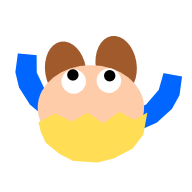
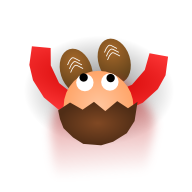
Uusi pelihahmo, uusi menu ja uudet kujeet

diff --git a/js/scripts.js b/js/scripts.js
@@ -92,7 +92,7 @@ $(function(){
 	var ukkoToleranssi = 40;
 	var pelikerrat=0;
 	
-	var tummuus = 0;
+	var tummuus = 1;
 	var biomiLaskuri=0;
 	
 	// Biomit
@@ -183,12 +183,12 @@ $(function(){
 		vihuX.push(ukkoX);
     }
 
-	var vihuSiirtyma = 256;
+	var vihuSiirtyma = 95;
 	
 	var matka = 0;
     var tieMinMax = [0, 960];
     
-    var paussilla = true;
+    var tauko = false;
 
 	// 2D-taulukko [5x4], jossa on referenssit kuviin
 	function alustaMaasto(){
@@ -329,7 +329,7 @@ $(function(){
 			biomiLaskuri=0;
 		}
 		// Pienennä musiikin äänenvoimakkuutta, kun vihollinen on lähempänä, menuissa, ym.
-		if(paussilla){
+		if(tauko){
 			aanenVoimakkuus=0.1;
 		}else{
 			aanenVoimakkuus=Math.max(0,Math.min(1,1/176*(vihuSiirtyma-80)));
@@ -391,10 +391,10 @@ $(function(){
 				break;
 				// Aseta peli tauolle kun painaa Esc
 				case 27:
-					if(paussilla){
-						paussilla=false;
+					if(tauko){
+						tauko=false;
 					}else{
-						paussilla=true;
+						tauko=true;
 					}
 				break;
 			}
@@ -443,10 +443,12 @@ $(function(){
 		}
         
         //Ukko ja tie. 
-		if((ukkoX<(tieMinMax[0]-ukkoToleranssi) || ukkoX > tieMinMax[1]+ukkoToleranssi-120) && !paussilla){
+		if((ukkoX<(tieMinMax[0]-ukkoToleranssi) || ukkoX > tieMinMax[1]+ukkoToleranssi-120) && !tauko){
+			var puolivali = Math.floor((0.5*(tieMinMax[0] + tieMinMax[1]))/192)*192;
 			suojakilpiTeho -= Math.random()/10;
 			suojakilpiTeho  = Math.max(0.1,suojakilpiTeho);
 			if(suojakilpi <= 0){
+				tavoiteX=puolivali;
 				vihuSiirtyma -= 64 + Math.round(Math.random()*48);
 				suojakilpi+=2000;
 				navigator.vibrate(500);
@@ -460,7 +462,7 @@ $(function(){
 		}
 		
 		// Maaston liikuttaminen
-		if(paussilla){
+		if(tauko){
 			game().textAlign="center";
 			var keskiosa = {"x":$("canvas").width()/2,"y":$("canvas").height()/2};
 			kirjoita("Tauolla",keskiosa.x,keskiosa.y,true,48);
@@ -477,7 +479,7 @@ $(function(){
 			siirtoY=0;
 			biomiLaskuri+=1;
 			console.log("Biomia on ollut "+biomiLaskuri+" blokkia");
-		if(hengissa && !paussilla){
+		if(hengissa && !tauko){
 			matka += 1;
 		}
 
@@ -645,34 +647,47 @@ $(function(){
 			// Kirjoita ruudun tekstit
 			switch(tila){
 				case 0:
-					kirjoita(pad(Math.round(matka),6),64,128,true,64);
-			
-					kirjoita("Uusi peli 〉",64,256,true,24);
-					kirjoita("Oletko valmis seikkailuun?",64,280,false);
-					kirjoita("Elvytä 〉",320,256,true,24);
-					if(kolikot>=100*Math.pow(2,pelikerrat)+50){
-						kirjoita("Jatka peliä, hinta "+(100*Math.pow(2,pelikerrat)+50)+" €",320,280,false);
+					if(matka>=10){
+						kirjoita(pad(Math.round(matka),6),64,128,true,64);
+						kirjoita("Elvytä",320,256,true,24);
+						if(kolikot>=100*Math.pow(2,pelikerrat)+50){
+							kirjoita("Jatka peliä, hinta "+(100*Math.pow(2,pelikerrat)+50)+" €",320,280,false);
+						}else{
+							kirjoita("Tarvitset vielä "+Math.round((100*Math.pow(2,pelikerrat))+50-kolikot)+" €",320,280,false);
+						}
 					}else{
-						kirjoita("Tarvitset vielä "+Math.round((100*Math.pow(2,pelikerrat))+50-kolikot)+" €",320,280,false);
+						kirjoita("HuhtiRun",64,128,true,64);
 					}
-					kirjoita("Store 〉",576,256,true,24);
-					kirjoita("Osta parannuksia peliin",576,280,false);
+			
+					kirjoita("Uusi peli",64+(Math.random()*4),256+(Math.random()*4),true,24);
+					kirjoita("Oletko valmis seikkailuun?",64+(Math.random()*4),280+(Math.random()*4),false);
+					kirjoita("Kauppa",576,256,true,24);
+					kirjoita("Osta buustia, suojakilpi ym.",576,280,false);
+
+					kirjoita("Tavoitteet",64,384,true,24);
+					kirjoita("Tarkastele tavoitteitasi",64,408,false);
+
+					kirjoita("Asetukset",320,384,true,24);
+					kirjoita("Säädä pelin asetuksia",320,408,false);
+
+					kirjoita("Ekstrat",576,384,true,24);
+					kirjoita("Ohjeet, tekijät ym.",576,408,false);
+
+					kirjoita("Tililläsi on nyt "+Math.round(kolikot)+" €",64,160,true);
 
 					game().textAlign="end";
-					kirjoita("Tililläsi on "+Math.round(kolikot)+" €",$("canvas").width()-64,128,true);
-
 					kirjoita("Pelin resetointi",$("canvas").width()-64,512,false);
 					game().textAlign="start";
 				break;
 				case 1:
-					kirjoita("Store",64,128,true,64);
+					kirjoita("Kauppa",64,128,true,64);
 					game().textAlign="end";
 					kirjoita("Tililläsi on "+Math.round(kolikot)+" €",$("canvas").width()-64,128,true);
 					game().textAlign="start";
 
 					game().save(); // Tallentaa canvasin asetukset
 					game().rotate(Math.PI/8);
-					kirjoita("Osta 200 m, saat 50 m kaupan päälle!",448,-128,false,20+(Math.random()*4));
+					kirjoita("Osta 200 m, saat 50 m kaupan päälle!",448,-128,false,22);
 					game().restore(); // Palauttaa canvasin asetukset
 
 					kirjoita("Buusti (=etumatka pelin alussa)",64,192,false);
@@ -689,6 +704,10 @@ $(function(){
 
 					kirjoita("← Takaisin",64,512,true);
 				break;
+				case 2:case 3:case 4:
+					kirjoita("Tulossa pian!",64,128,true,64);
+					kirjoita("← Takaisin",64,512,true);
+				break;
 			}
 		}
 		if(hengissa){
@@ -702,7 +721,7 @@ $(function(){
 		}else{
 			// Versionumeron ja copyrightin printtaus
 			game().textAlign="end";
-			kirjoita("HuhtiRun 1.1",$("canvas").width()-8,$("canvas").height()-8,false,8);
+			kirjoita("rev. 1.1.1 (a)",$("canvas").width()-8,$("canvas").height()-8,false,8);
 			game().textAlign="start";
 			kirjoita("© 2013 Huhdin koulu",8,$("canvas").height()-8,false,8);
 		}
@@ -716,63 +735,82 @@ $(function(){
 			klikkiPos=[x,y];
 			navigator.vibrate(100);
 			if(x>$("canvas").width()-48 && y<64){
-				if(paussilla){
-					paussilla=false;
+				if(tauko){
+					tauko=false;
 				}else{
-					paussilla=true;
+					tauko=true;
 				}
 			}
 		}else{
 			if(tila==0){
 				navigator.vibrate(100);
 					if(y<448){
-						if(x>=0 && x<256){ // Aloita uusi peli
-							if(! inaktiivinenMenu){
-								inaktiivinenMenu=true;
+						if(y>320){ // Alarivi
+							if(x>=0 && x<256){ // Siirry tavoitemenuun
+								tila=2;
 								klikkiAani[0].play();
-								pelaajaNopeus=0;
-								setTimeout(function(){
-									alustaMaasto();
-									vihuSiirtyma=512;
-									pelaajaNopeus=10;
-									huuto[0].play();
-									hengissa=true;
-									matka=0;
-									tausta[0].volume=1;
-									suojakilpi+=2000;
-									inaktiivinenMenu=false;
-									pelikerrat=0;
-									navigator.vibrate(1000);
-									if(buusti>0 && hengissa){
-										matka+=parseInt(buusti);
-										buusti=0;
-									}
-								},1000);
 							}
-						}
-						if(x>=256 && x<512){ // Elvytä itsesi
-							if(! inaktiivinenMenu && osta(100*Math.pow(2,pelikerrat)+50)){
-								inaktiivinenMenu=true;
-								pelaajaNopeus=0;
-								setTimeout(function(){
-									vihuSiirtyma=256;
-									hengissa=true;
-									pelaajaNopeus=10;
-									tausta[0].volume=1;
-									suojakilpi+=2000;
-									inaktiivinenMenu=false;
-									pelikerrat+=1;
-									navigator.vibrate(1000);
-									if(buusti>0 && hengissa){
-										matka+=parseInt(buusti);
-										buusti=0;
-									}
-								},1000);
+							if(x>=256 && x<512){ // Siirry asetuksiin
+								tila=3;
+								klikkiAani[0].play();
 							}
-						}
-						if(x>=512){
-							tila=1; // Mene kauppaan
-							klikkiAani[0].play();
+							if(x>=512){ // Siirry ekstroihin
+								tila=4;
+								klikkiAani[0].play();
+							}
+						}else{ // Ylärivi
+							if(x>=0 && x<256){ // Aloita uusi peli
+								if(! inaktiivinenMenu){
+									inaktiivinenMenu=true;
+									klikkiAani[0].play();
+									pelaajaNopeus=0;
+									setTimeout(function(){
+										tummuus=1;
+										alustaMaasto();
+										vihuSiirtyma=512;
+										pelaajaNopeus=10;
+										huuto[0].play();
+										hengissa=true;
+										matka=0;
+										tausta[0].volume=1;
+										suojakilpi+=2000;
+										inaktiivinenMenu=false;
+										pelikerrat=0;
+										navigator.vibrate(1000);
+										if(buusti>0 && hengissa){
+											matka+=parseInt(buusti);
+											buusti=0;
+										}
+									},1000);
+								}
+							}
+							if(x>=256 && x<512){ // Elvytä itsesi
+								if(matka>=10){
+									if(! inaktiivinenMenu && osta(100*Math.pow(2,pelikerrat)+50)){
+										inaktiivinenMenu=true;
+										pelaajaNopeus=0;
+										setTimeout(function(){
+											tummuus=1;
+											vihuSiirtyma=256;
+											hengissa=true;
+											pelaajaNopeus=10;
+											tausta[0].volume=1;
+											suojakilpi+=2000;
+											inaktiivinenMenu=false;
+											pelikerrat+=1;
+											navigator.vibrate(1000);
+											if(buusti>0 && hengissa){
+												matka+=parseInt(buusti);
+												buusti=0;
+											}
+										},1000);
+									}
+								}
+							}
+							if(x>=512){
+								tila=1; // Mene kauppaan
+								klikkiAani[0].play();
+							}
 						}
 					}else{
 						if(x>=$("canvas").width()/4*3){
@@ -846,7 +884,14 @@ $(function(){
 							}
 						}
 					}else{
-						tila=0; // Siirry takaisin kuolinruutuun
+						tila=0; // Siirry takaisin menuun
+						klikkiAani[0].play();
+					}
+				}else if(tila==2 || tila==3 || tila==4){ // Tavoitemenu
+					if(y<448){
+						// // // // //
+					}else{
+						tila=0; // Siirry takaisin menuun
 						klikkiAani[0].play();
 					}
 				}
